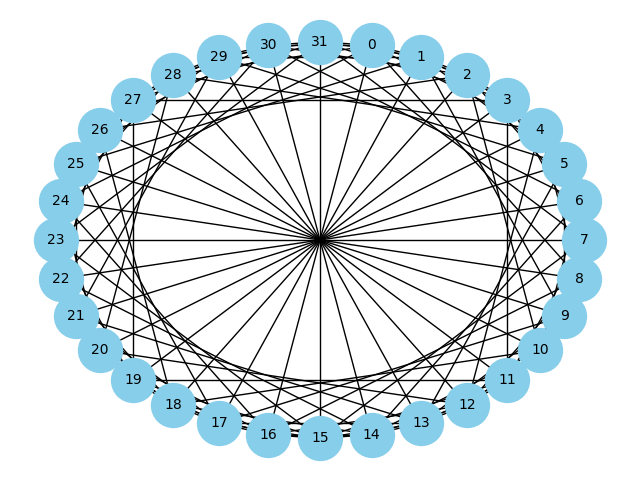
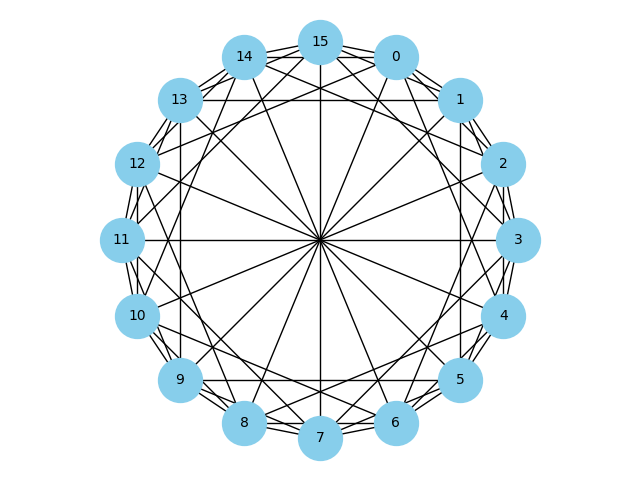
screenshot

diff --git a/chord/network.py b/chord/network.py
@@ -119,15 +119,16 @@ class Network():
         # Προσθέτει ακμές από κάθε κόμβο στον επόμενο του
         for i in range(len(sorted_nodes)):
             self.chord_ring.add_edge(sorted_nodes[i], sorted_nodes[i].successor)
-            # Προσθέτει ακμές από κάθε κόμβο σε κάθε κόμβο του fingers table του
+            # Προσθέτει ακμές σε κάθε κόμβο του fingers table του
             for j in sorted_nodes[i].fingers_table:
                 self.chord_ring.add_edge(sorted_nodes[i], j)
         
         # Περιστρέφει το γράφο για να είναι ο μικρότερος κόμβος δεξιά
         rotated_pos = {node: (-y, x) for node, (x, y) in nx.circular_layout(self.chord_ring).items()}
 
-        pos = nx.circular_layout(self.chord_ring)
         nx.draw(self.chord_ring, rotated_pos, with_labels=True, node_color='skyblue', node_size=1000, font_size=10)
+        
         plt.title("Chord DHT")
+        plt.gca().set_aspect('equal', adjustable='box')
         plt.pause(0.001)
         plt.ioff() 

diff --git a/chord/demo.py b/chord/demo.py
@@ -56,7 +56,6 @@ while True:
         else:
             s_network.add_node(node_id)
             node_ids.append(node_id)
-            s_network.print_network()
     elif choice == 2: 
         node_id = int(input('ID Κόμβου: '))
         if node_id not in node_ids:
@@ -64,7 +63,6 @@ while True:
         else:
             node_ids.remove(node_id)
             s_network.remove_node(node_id)
-            s_network.print_network()
     elif choice == 3: 
         query = input('Πανεπιστήμιο: ')
         num_awards = int(input('# Βραβεία: '))
